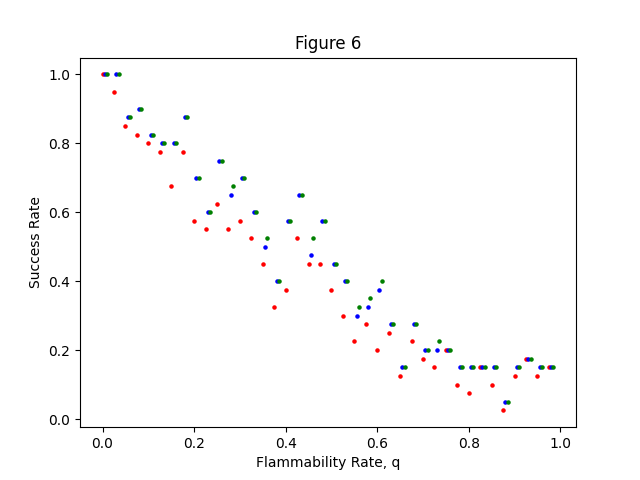
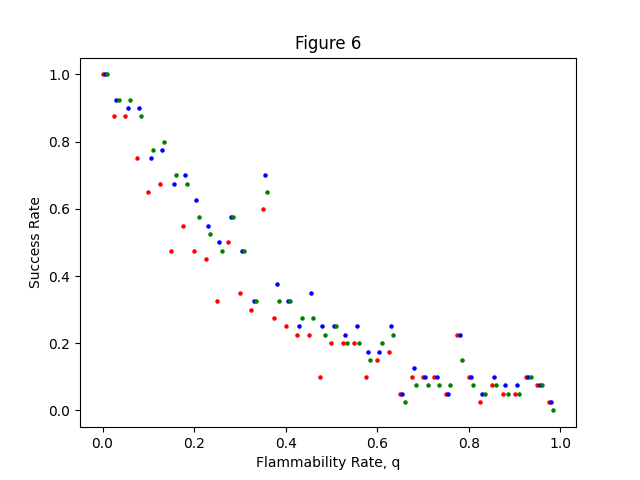
don't block 0 danger cells

diff --git a/util.py b/util.py
@@ -217,7 +217,8 @@ def bfs(maze, s, g, distances=False):
             break
         # For each neighbor, add to fringe if not visited and valid
         for x, y in adj_cells(v):
-            if (x, y) not in visited and valid_cell(x, y, maze):
+            if (x, y) not in visited and valid_cell(x, y, maze) and not (
+                    distances and (x, y) == (len(maze) - 1, len(maze) - 1)):
                 visited.add((x, y))
                 fringe.append((x, y))
         if num_in_layer == 0:
@@ -296,52 +297,6 @@ def a_star(maze, s, g, h_map, path=False):
         return num_visited
 
 
-def sim_tick_maze(maze, fires, q, threshold):
-    """
-    Simulates the fire spreading one step in some maze
-    :param maze: The maze to simulate fire in
-    :param fires: A set containing coordinates of every fire
-    :param q: The flammability rate of the fire
-    :param threshold: If cell ignition prob is at least threshold, then ignite it
-    :return: Tuple containing the new maze and new set of fires
-    """
-
-    def count_fires(maze, fire):
-        """
-        Helper function to count fires surronding a cell
-        :param maze: Maze to count from
-        :param fire: Pair of coordinates of interest
-        :return: Number of fires surronding cell
-        """
-        num_fires = 0
-        for dx, dy in adj_cells(fire):
-            if valid_cell(dx, dy, maze, val=2):
-                num_fires += 1
-        return num_fires
-
-    # Generate a copy of current fires and maze
-    new_fires = fires[:]
-    new_maze = [row[:] for row in maze]
-    visited = set()
-
-    # For each fire, we check its neighbors
-    for fire in fires:
-        for x, y in adj_cells(fire):
-            # If the cell is open and we have not simulated it, simulate the fire spreading
-            if valid_cell(x, y, maze) and (x, y) not in visited:
-                if 1 - math.pow(1 - q, count_fires(maze, (x, y))) >= threshold:
-                    # If fire spreads, update the new maze and new fires
-                    new_maze[x][y] = 2
-                    new_fires.append((x, y))
-                visited.add((x, y))
-        # If the cell we were checking is now surrounded by four fires,
-        # it can no longer spread so we remove it from our list
-        if count_fires(new_maze, fire) == 4:
-            new_fires.remove(fire)
-
-    return new_maze, new_fires
-
-
 def scorch(maze, s, g, h_map, fires, q):
     '''
     simulated circumvention of risk convergence hotspots: simulates spread of fire several times and calculates
@@ -399,12 +354,28 @@ def scorch(maze, s, g, h_map, fires, q):
             prob = count / num_trials
             heapq.heappush(block_heap, (-1 * prob, (x, y)))  # -1 because we want max heap functionality
 
+    '''
+    deb = deepcopy(maze)
+    for tuple in block_heap:
+        prob = tuple[0] * -1
+        x, y = tuple[1]
+        deb[x][y] = prob
+    deb[s[0]][s[1]] = 'A'
+    for row in deb:
+        print(row)
+    print()
+    '''
+
     # in temp maze, block as many dangerous cells as we can and then run a*
     temp = deepcopy(maze)
     while block_heap:
         popped = heapq.heappop(block_heap)
         x, y = popped[1]
-        temp[x][y] = 1
-        if not dfs(temp, s, g):
-            temp[x][y] = 0
+        prob = popped[0] * -1
+        if prob != 0.0:
+            temp[x][y] = 1
+            if not dfs(temp, s, g):
+                temp[x][y] = 0
+    # print('temp:')
+    # print_maze(temp, agent=s)
     return a_star(temp, s, g, h_map, path=True)

diff --git a/main.py b/main.py
@@ -111,11 +111,11 @@ def problem6():
     exec = concurrent.futures.ProcessPoolExecutor()
     q_steps = 40
     q_trials = 40
-    dim = 4
+    dim = 75
 
     t = time.time()
 
-    xs = [[q / q_steps + i/200 for q in range(q_steps)] for i in range(3)]
+    xs = [[q / q_steps + i / 200 for q in range(q_steps)] for i in range(3)]
     ys = [[0 for _ in range(q_steps)] for _ in range(3)]
     h_map = {}
     h = lambda f, g: math.sqrt(math.pow(f[0] - g[0], 2) + math.pow(f[1] - g[1], 2))
@@ -202,3 +202,31 @@ if __name__ == "__main__":
     # problem4()
     # fire_sim()
     problem6()
+    exit(0)
+    maze = [[0, 0, 0, 0], [0, 1, 1, 0], [0, 0, 2, 0], [0, 0, 0, 0]]
+    fires = [(2, 2)]
+    last_fires = None
+    dim = 4
+    q = .1
+    current = (0, 0)
+    h_map = {}
+    h = lambda f, g: math.sqrt(math.pow(f[0] - g[0], 2) + math.pow(f[1] - g[1], 2))
+    for i in range(dim):
+        for j in range(dim):
+            h_map[(i, j)] = h((i, j), (dim - 1, dim - 1))
+    while True:
+        if last_fires != fires:
+            path = scorch(maze, current, (dim - 1, dim - 1), h_map, fires, q)
+        if path:
+            current = path.popleft()
+            print('maze:')
+            print_maze(maze, agent=current)
+            print()
+            if (current[0], current[1]) == (dim - 1, dim - 1):
+                exit(0)
+        else:
+            exit(1)
+        last_fires = fires.copy()
+        maze, fires = tick_maze(maze, fires, q)
+        if maze[current[0]][current[1]] != 0 or not dfs(maze, current, (dim - 1, dim - 1)):
+            exit(1)
